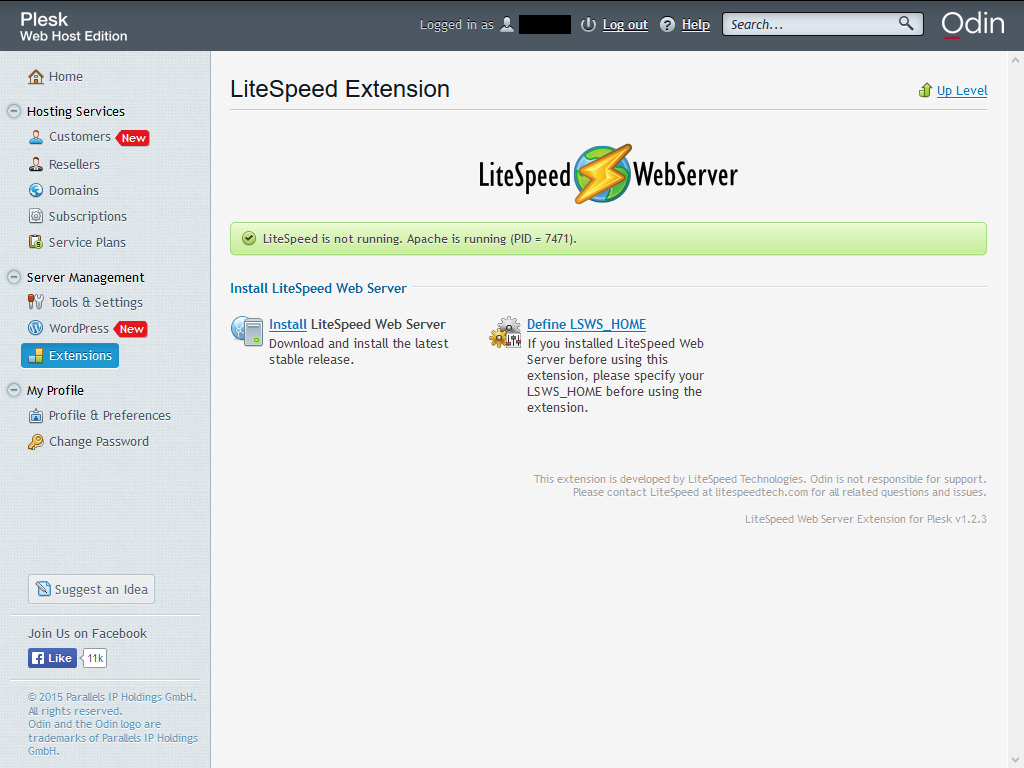
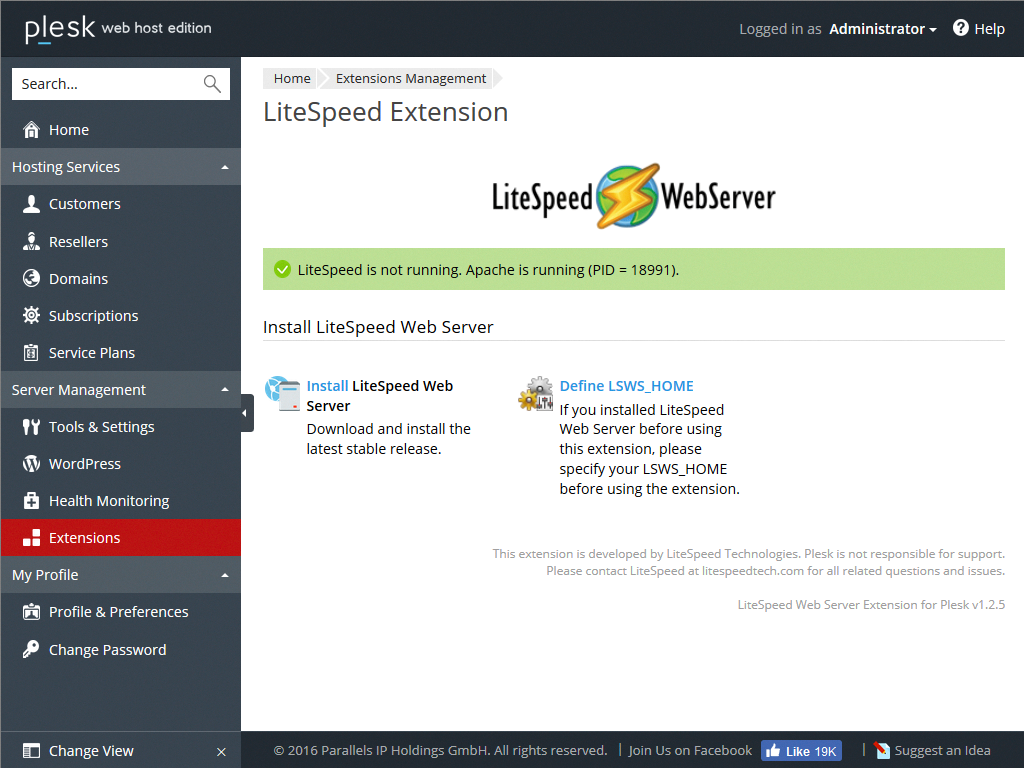
update php setup to use php selector, remove old RPM download

diff --git a/plib/library/View.php b/plib/library/View.php
@@ -2,7 +2,7 @@
 /********************************************
 * LiteSpeed Web Server Plugin for Plesk Panel
 * @Author:   LiteSpeed Technologies, Inc. (https://www.litespeedtech.com)
-* @Copyright: (c) 2013-2015
+* @Copyright: (c) 2013-2016
 *********************************************/
 
 
@@ -226,7 +226,7 @@ If successful, remove the installation script:
 
 		}
 		$buf .= '<p></p>
-<p style="margin-top:30px;color:#a0a0a0;text-align:right;font-size:11px">This extension is developed by LiteSpeed Technologies. Odin is not responsible for
+<p style="margin-top:30px;color:#a0a0a0;text-align:right;font-size:11px">This extension is developed by LiteSpeed Technologies. Plesk is not responsible for
 support.<br/>Please contact LiteSpeed at litespeedtech.com for all related questions and issues.<br/><br/>LiteSpeed Web Server Extension for Plesk v'
 		. MODULE_VERSION . ' </p>
 
@@ -545,7 +545,7 @@ support.<br/>Please contact LiteSpeed at litespeedtech.com for all related quest
 					'It is recommended that you run LiteSpeed in parallel first, so you can fully test it before switching to LiteSpeed.');
 		$buf .= $this->form_row('Port offset: ', $input, $info['error']['port_offset'], $hints);
 
-		$input = $this->input_checkbox('php_suexec', 'enable', ($info['php_suexec']=='enable'));
+		$input = $this->input_checkbox('php_suexec', 'enable', ($info['php_suexec'] != ''));
 		$hints = 'Recommended for shared hosting.';
 		$buf .= $this->form_row('Enable PHP SuEXEC:', $input, NULL, $hints);
 
@@ -565,24 +565,6 @@ support.<br/>Please contact LiteSpeed at litespeedtech.com for all related quest
 		$input = $this->input_password('admin_pass1', $info['admin_pass1']);
 		$buf .= $this->form_row('Retype password:', $input, $info['error']['admin_pass1']);
 
-		$buf .= $this->section_title('After Installation Notes (Important)');
-		$warn[] = '<p>Need to install a matching PHP with LSAPI.</p>';
-
-		if ($info['rpm'] != NULL) {
-		$warn[] = '<p>For CentOS 5/6/7, a basic RPM package for is available. This package contains all commonly used options and <strong>will be installed automatically</strong>.
-            This package is enough for most CentOS users, but if your applications require special options, you will need to install a new PHP via RPM or compile a custom build of the PHP binary.</p>';
-            $input = $this->input_select('php_version', $info['php_options'], $info['php_version']);
-            $buf .= $this->form_row('Select your PHP version:', $input);
-		}
-		else {
-			$warn[] = '<p>You will need to install a new PHP via RPM or compile a custom build of the PHP binary.</p>';
-		}
-
-        $warn[] = '<p class="hint"><a href="https://www.litespeedtech.com/support/wiki/doku.php/litespeed_wiki:php:rpm" target="_blank">Guide</a> to installing via RPM &nbsp;&nbsp;&nbsp;
-                <a href="https://www.litespeedtech.com/support/wiki/doku.php/litespeed_wiki:php:lsapi" target="_blank">Guide</a> to compiling PHP via WebAdmin console</p>';
-
-		$buf .= $this->warning_panel_mesg('Install PHP for LiteSpeed Web Server (PHP with LSAPI)', $warn);
-
 		$buf .= $this->button_panel_cancel_next('Cancel', 'Install');
 		$this->bufs[] = $buf;
 	}
@@ -599,21 +581,6 @@ support.<br/>Please contact LiteSpeed at litespeedtech.com for all related quest
 		else {
 			$title = 'LiteSpeed installed successfully';
 			$buf .= $this->info_panel_mesg($title, $info['output']);
-
-			if ($info['rpm'] != NULL) {
-				$warn[] = '<p><strong>For CentOS 5/6/7, an RPM package for ' . $info['php_version'] . ' is available.
-                    This package contains all commonly used options and was installed automatically.</strong> This package is enough for most CentOS users,
-                    but if your applications require special options, you will need to install a new PHP via RPM or compile a custom build of the PHP binary.</p>';
-			}
-			else {
-				$warn[] = '<p>You will need to install a new PHP via RPM or compile a custom build of the PHP binary.</p>';
-			}
-
-            $warn[] = '<p class="hint"><a href="https://www.litespeedtech.com/support/wiki/doku.php/litespeed_wiki:php:rpm" target="_blank">Guide</a> to installing via RPM &nbsp;&nbsp;&nbsp;
-                <a href="https://www.litespeedtech.com/support/wiki/doku.php/litespeed_wiki:php:lsapi" target="_blank">Guide</a> to compiling PHP via WebAdmin console</p>';
-
-			$buf .= $this->warning_panel_mesg('Install PHP for LiteSpeed Web Server (PHP with LSAPI)', $warn);
-
 		}
 		$buf .= $this->button_panel_back('OK');
 		$this->bufs[] = $buf;

diff --git a/plib/controllers/IndexController.php b/plib/controllers/IndexController.php
@@ -20,7 +20,7 @@ class IndexController extends pm_Controller_Action
 		    else
 		    	pm_Settings::set('LSWS_HOME', NULL);
 		}
-		define('MODULE_VERSION', '1.2.4');
+		define('MODULE_VERSION', '1.2.5');
 
 		$this->view->dispatcher = new Modules_Litespeed_View($this->view);
 		$this->util = new Modules_Litespeed_Util();
@@ -298,12 +298,6 @@ class IndexController extends pm_Controller_Action
 
 	private function install_lsws($step)
 	{
-		$info['rpm'] = $this->util->HasRPM();
-   		$info['php_version'] = $this->util->GetDefaultLsphpVersion();
-        if ($info['rpm'] != '') {
-            $info['php_options'] = array('lsphp53' => '5.3', 'lsphp54' => '5.4', 'lsphp55' => '5.5', 'lsphp56' => '5.6');
-        }
-
 		if ($step == 0) {
 			// populate default
 			$info['license_agree'] = '';
@@ -311,7 +305,7 @@ class IndexController extends pm_Controller_Action
 			$info['serial_no'] = '';
 			$info['lsws_home_input'] = '/usr/local/lsws';
 			$info['port_offset'] = '0';
-			$info['php_suexec'] = '';
+			$info['php_suexec'] = 2; // enable in user home dir
 			$info['admin_email'] = 'root@localhost';
 			$info['admin_login'] = 'admin';
 			$info['admin_pass'] = '';
@@ -323,13 +317,10 @@ class IndexController extends pm_Controller_Action
 			$info['serial_no'] = $this->util->get_request_var('serial_no');
 			$info['lsws_home_input'] = $this->util->get_request_var('lsws_home_input');
 			$info['port_offset'] = $this->util->get_request_var('port_offset');
-			$info['php_suexec'] = ($this->util->get_request_var('php_suexec') == 'enable')? 1: 0;
+			$info['php_suexec'] = ($this->util->get_request_var('php_suexec') == 'enable')? 2: 0;
 			$email = $this->util->get_request_var('admin_email');
 			$emails = preg_split("/, /", $email, -1, PREG_SPLIT_NO_EMPTY);
 			$info['admin_email'] = implode(', ', $emails);
-            if ($info['rpm'] != '') {
-                $info['php_version'] = $this->util->get_request_var('php_version');
-            }
 
 			$info['admin_login'] = $this->util->get_request_var('admin_login');
 			$info['admin_pass'] = $this->util->get_request_var('admin_pass');

diff --git a/plib/library/Util.php b/plib/library/Util.php
@@ -2,7 +2,7 @@
 /********************************************
 * LiteSpeed Web Server Plugin for Plesk Panel
 * @Author:   LiteSpeed Technologies, Inc. (https://www.litespeedtech.com)
-* @Copyright: (c) 2013-2015
+* @Copyright: (c) 2013-2016
 *********************************************/
 
 class Modules_Litespeed_Util
@@ -330,28 +330,6 @@ class Modules_Litespeed_Util
 		return $errors;
 	}
 
-	public function HasRPM()
-	{
-		$rpm = '';
-		// only CentOS 5&6&7
-		$s = file_get_contents('/etc/redhat-release');
-		if ($s != FALSE) {
-			if (preg_match('/release (\d+)\.\d+/', $s, $m)) {
-				if ($m[1] == '5' || $m[1] == '6' || $m[1] == '7')
-					$rpm = "http://rpms.litespeedtech.com/centos/litespeed-repo-1.1-1.el{$m[1]}.noarch.rpm";
-			}
-		}
-		return $rpm;
-	}
-
-	public function GetDefaultLsphpVersion()
-	{
-		$v = phpversion();
-		$r = explode('.', $v);
-		$lsphpver = "lsphp{$r[0]}{$r[1]}";
-		return $lsphpver;
-	}
-
 	public function InstallLSWS($input, &$output)
 	{
 		$install_cmd = CGI_DIR . 'install_lsws_plesk '
@@ -361,9 +339,7 @@ class Modules_Litespeed_Util
 			. $input['php_suexec'] . ' '
 			. escapeshellarg($input['admin_login']) . ' '
 			. escapeshellarg($input['admin_pass']) . ' '
-			. escapeshellarg($input['admin_email']) . ' '
-			. escapeshellarg($input['php_version']) . ' '
-			. escapeshellarg($input['rpm']);
+			. escapeshellarg($input['admin_email']) ;
 
 		$this->exec_cmd($install_cmd, $output, $return_var);
 
